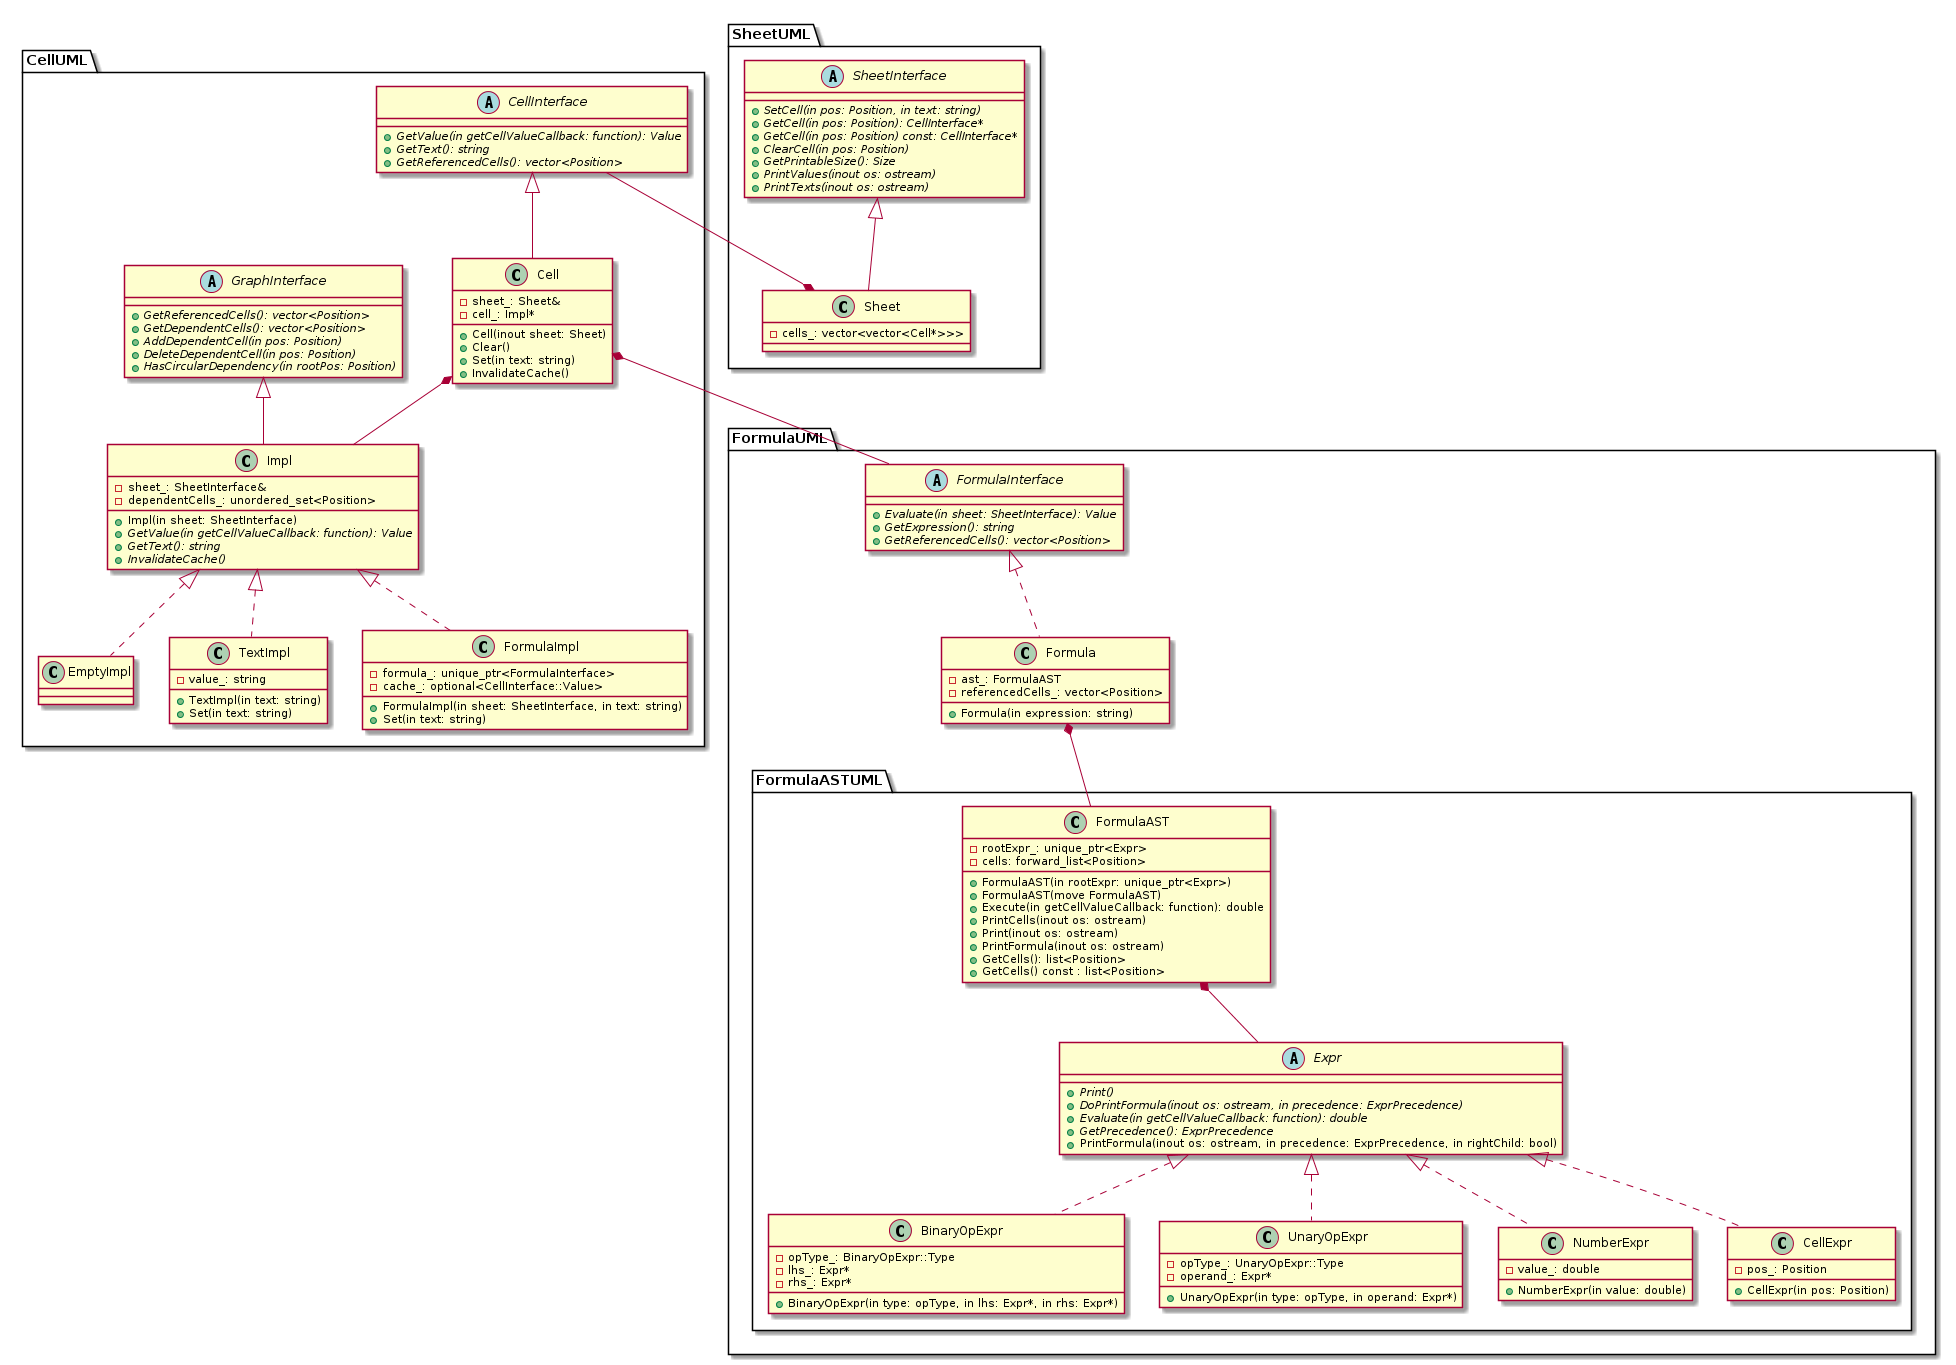
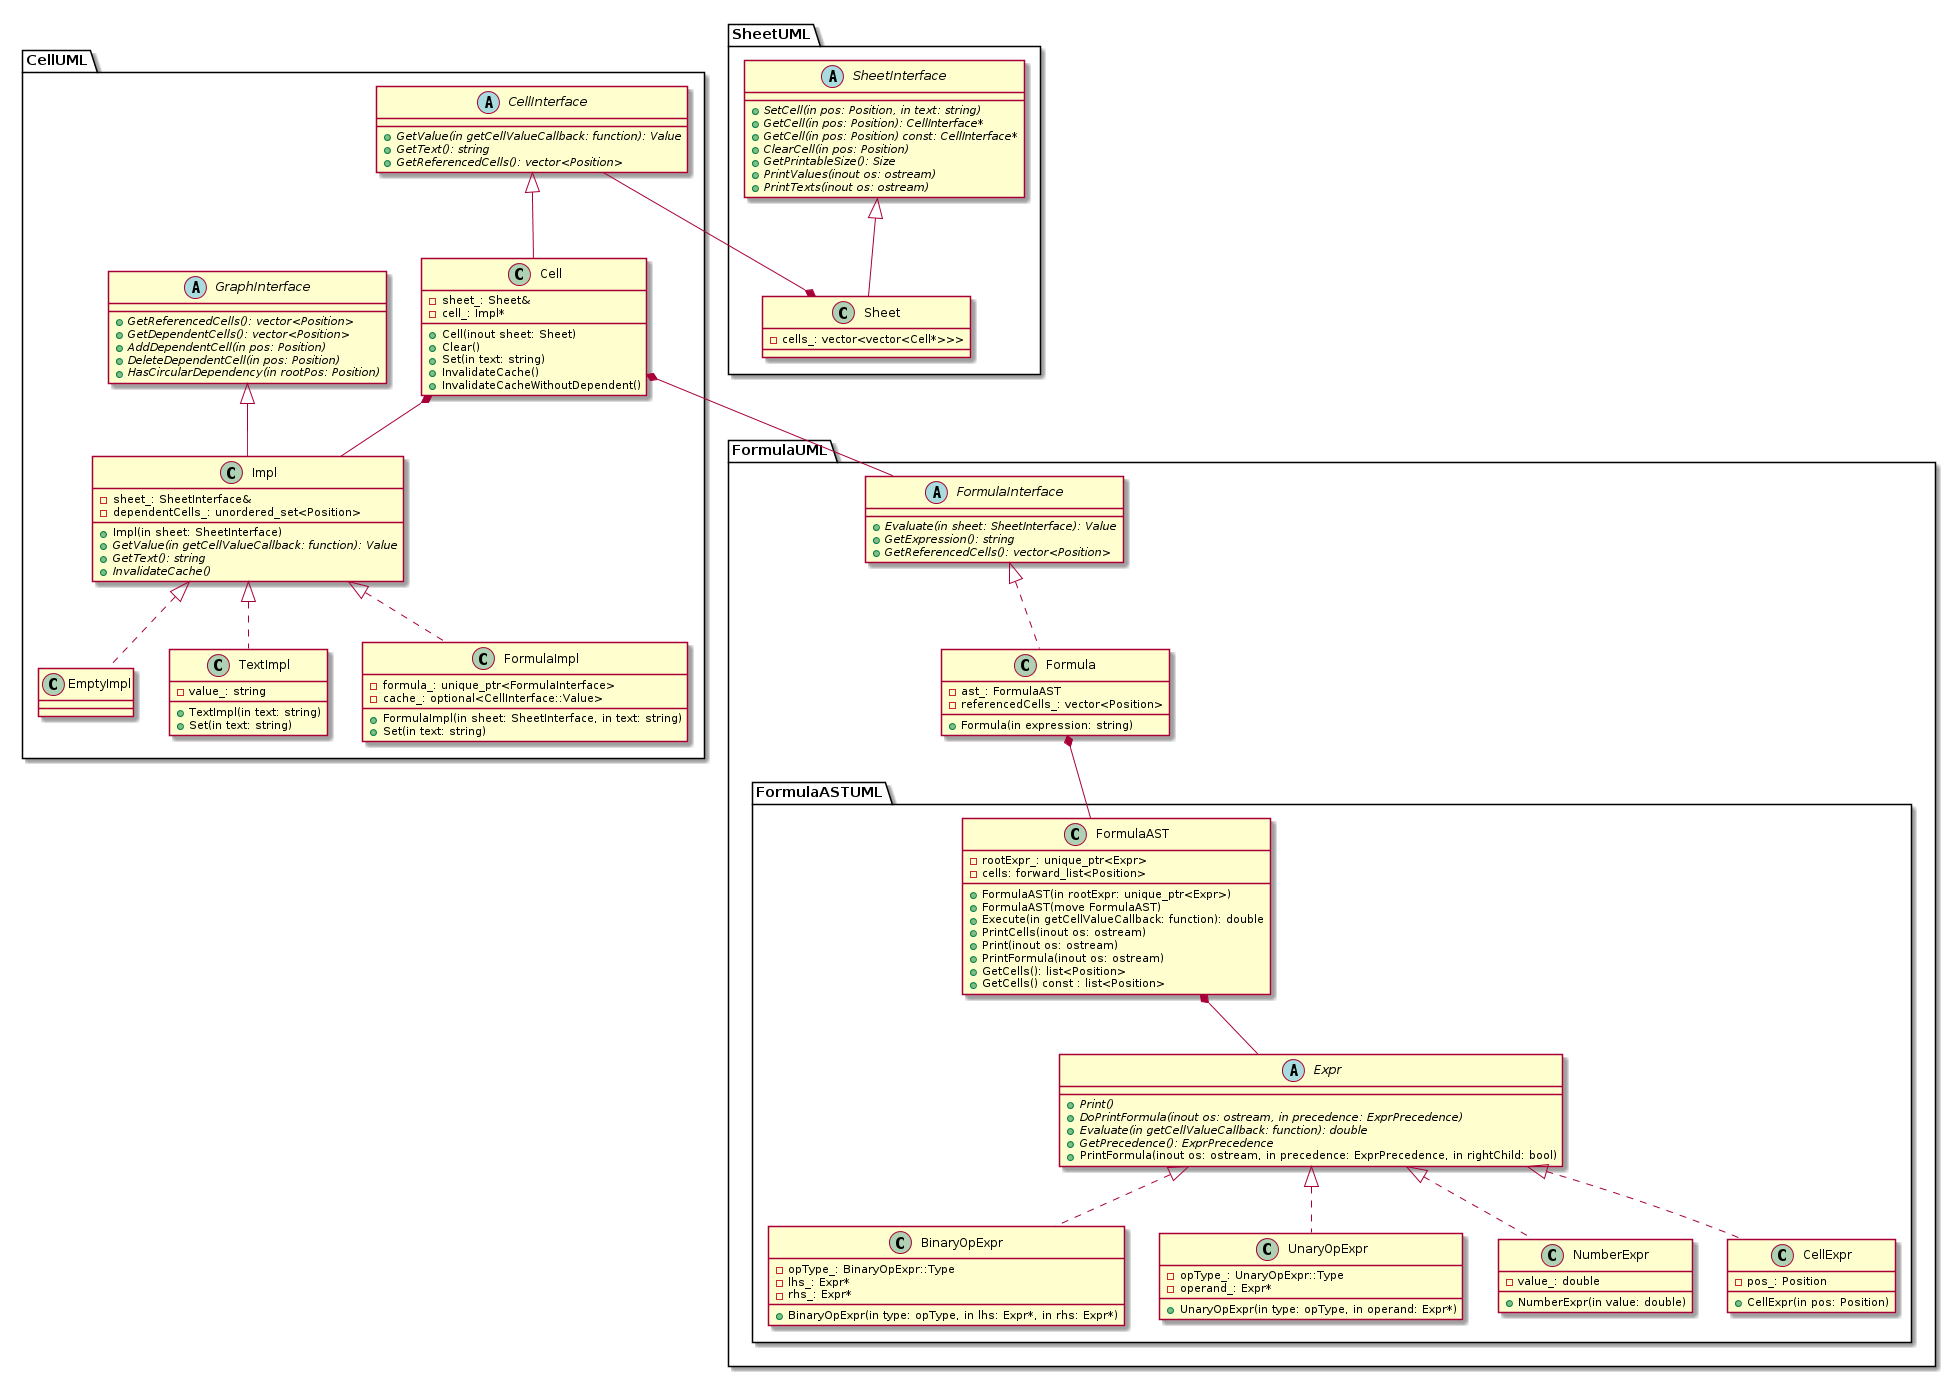
Add InvalidateCacheWithoutDependent()

diff --git a/headers/cell.h b/headers/cell.h
@@ -49,6 +49,7 @@ class Cell : public CellInterface {
   std::string GetText() const override;
 
   void InvalidateCache() const;
+  void InvalidateCacheWithoutDependent() const;
 
  private:
  private:
